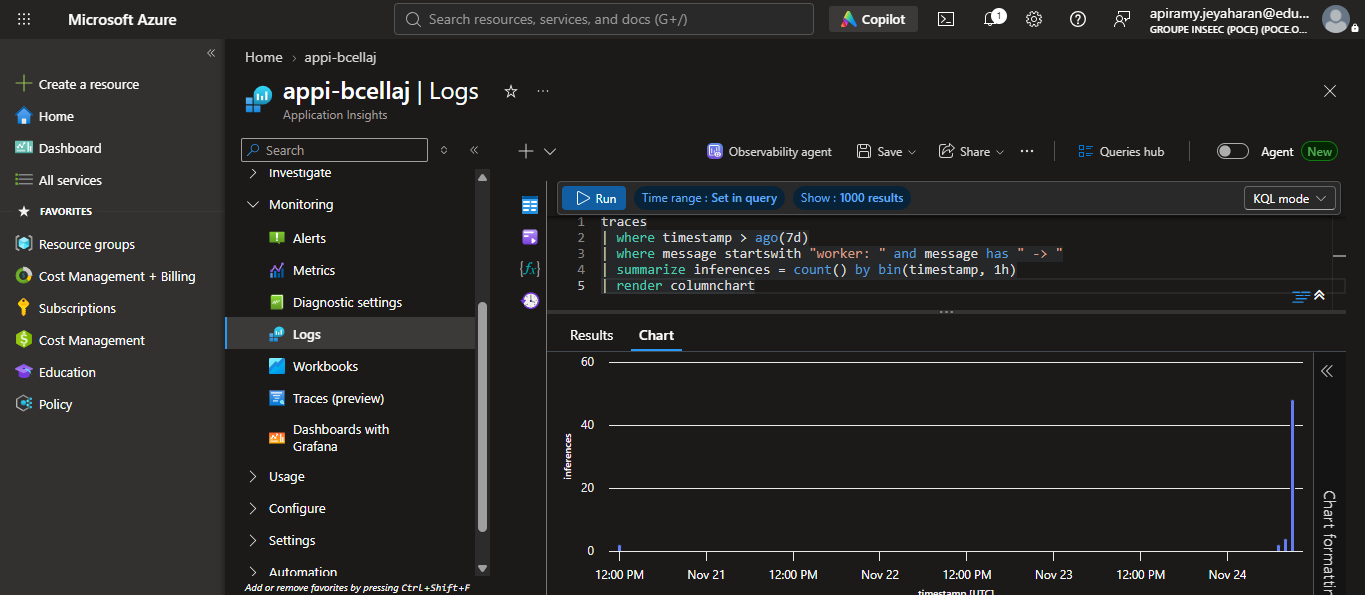
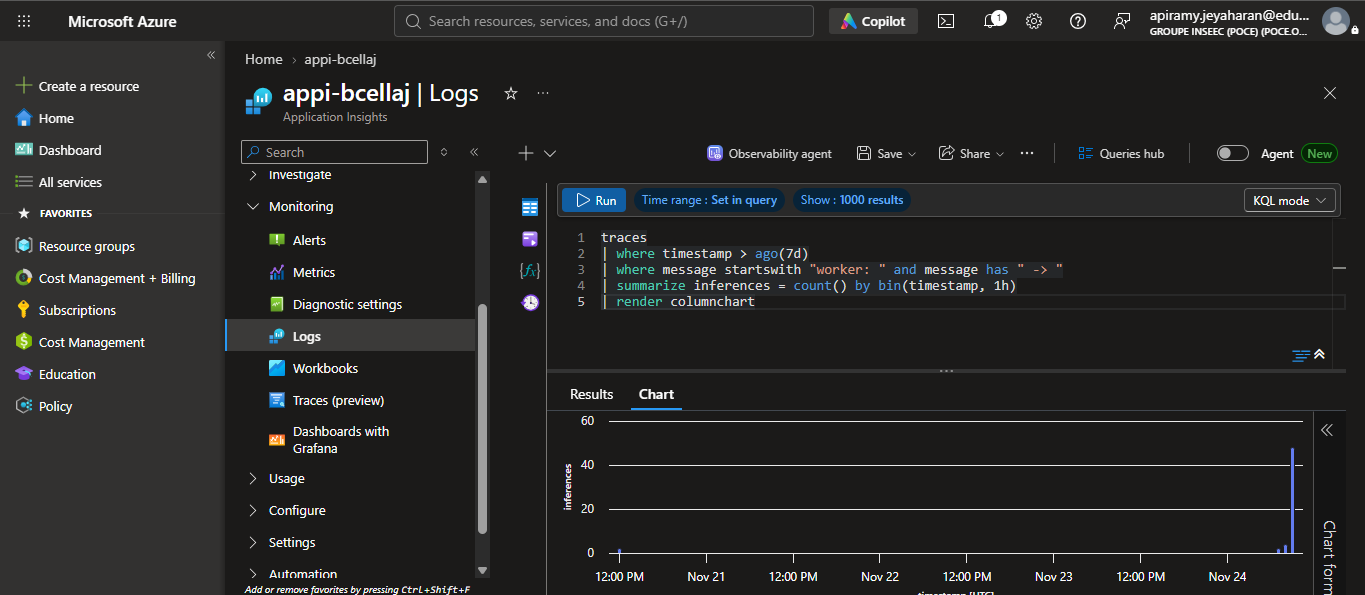
Timelog,cost and screenshot for doc added

diff --git a/docs/cost_report.md b/docs/cost_report.md
@@ -1,0 +1,58 @@
+# Cost report – team `bcellaj`
+
+**Subscription:** Azure for Students (integration subscription owned by Apiramy Jeyaharan)
+**Resource group:** `rg-projet-bcellaj` – region `francecentral` – tags `projet=dscc`, `equipe=bcellaj`
+**Envelope:** $25 maximum · **Budget:** `budget-bcellaj`, $25, alerts at 20 % ($5), 50 % ($12.50), 80 % ($20) – see `budget.png`
+
+## 1. Initial estimate (15 days)
+
+| Service | Configuration | Free grant used | Estimate |
+|---|---|---|---|
+| Functions (Flex Consumption) | 1 app, 512 MB, 3 functions | 250,000 executions + 100,000 GB-s / month | $0.00 |
+| Container Apps (Consumption) | 0.25 vCPU / 0.5 GiB, **min 0 replicas** | 180,000 vCPU-s + 360,000 GiB-s + 2 M requests / month | $0.00 |
+| Event Grid | system topic, 1 subscription | 100,000 operations / month | $0.00 |
+| Storage (blob, queues, `$web`) | Standard LRS, a few MB, a few thousand transactions | – | < $0.20 |
+| Cosmos DB | **Free Tier**, 400 RU/s shared | 1,000 RU/s + 25 GB | $0.00 |
+| Log Analytics + Application Insights | **daily cap 0.2 GB** | 5 GB ingestion / month | $0.00 |
+| Log alert (every 15 min) | 1 rule | – | < $0.50 |
+| GitHub Actions + GHCR | public repository | free | $0.00 |
+| ACR | **not used** (GHCR instead) | – | $0.00 |
+| **Total** | | | **≈ $0 – $1** |
+
+## 2. Actual cost on D15
+
+Source: Cost Management → **Cost analysis**, scope = subscription, **filter tag `projet = dscc`**, period = project dates. Screenshot: `cost_analysis_d15.png`.
+
+| Service | Actual cost |
+|---|---|
+| _fill in from Cost analysis (group by service name)_ | _$_ |
+| | |
+| **Total** | **$ _____** |
+
+## 3. Gap between estimate and actual
+
+| | |
+|---|---|
+| Estimate | ≈ $0 – $1 |
+| Actual | $ _____ |
+| Gap | $ _____ |
+
+Explanation (adapt to the real numbers):
+- Most services stayed within their monthly free grants (Functions, Container Apps at 0 replicas when idle, Event Grid, Cosmos DB Free Tier, App Insights below 5 GB).
+- The small amounts come from: storage transactions and capacity (the Flex Consumption deployment package is also stored in the account), the log alert rule (billed per rule and per evaluation frequency), and Log Analytics ingestion if any.
+- Cost Management data can lag by 24–48 h, so the D15 figure may slightly under-report the last day.
+
+## 4. Proof of deletion (after the defence)
+
+```bash
+az group delete -n rg-projet-bcellaj --yes
+az group exists -n rg-projet-bcellaj                 # -> false            (cleanup_group_exists.png)
+az group list -o table                               # no rg-projet-bcellaj, no DefaultResourceGroup-*   (cleanup_group_list.png)
+```
+
+Also delete, outside the resource group:
+- the budget `budget-bcellaj` is scoped to the group and disappears with it;
+- the GitHub secrets and the `production` environment (optional, no cost);
+- the GHCR package (optional, free).
+
+Deletion date: _dd/mm/2026_ (must be within 48 h after the defence).

diff --git a/docs/time_log.md b/docs/time_log.md
@@ -1,0 +1,31 @@
+# Time log – team `bcellaj`
+
+One line per work session. Durations are actual working time. **Each member fills in their own lines.**
+
+| Date | Member | Task | Duration | Blocker / note |
+|---|---|---|---|---|
+| 20/11/2026 | Apiramy | Read the subject, choose the use case (BloodMNIST blood-cell classification), plan the team split | 0 h 45 | – |
+| 20/11/2026 | Apiramy | Training notebook on Colab: baselines, small CNN, ResNet-18 fine-tuning, ONNX export, metrics | 1 h 15 | – |
+| 20/11/2026 | Apiramy | FastAPI inference API, pytest tests, multi-stage Dockerfile; GitHub repo + `ci.yml` (GHCR) | 1 h 00 | GHCR package private by default → made public |
+| 20/11/2026 | Apiramy | Region checks (policy + Flex Consumption), resource group, Cosmos DB Free Tier (CLI), storage, queues, Log Analytics + App Insights | 1 h 00 | Cloud Shell lost variables after each disconnection |
+| 20/11/2026 | Apiramy | Container Apps environment + API deployment (0→2 replicas), probes, internet test | 0 h 45 | Placeholder left in image name (`ghcr.io//…`) |
+| 20/11/2026 | Apiramy | Function App (Flex), managed identity + role assignments, settings, code deployment, Event Grid subscription, tests valid / invalid / poison | 1 h 15 | Remote build failed: `azure-functions==2.4.0` needs Python 3.13 → pinned 1.26.0 |
+| 24/11/2026 | Apiramy | Dashboard (`$web` + Chart.js) and CORS | 0 h 30 | – |
+| 24/11/2026 | Apiramy | Fix red CI (ruff UP017), `deploy.yml` with OIDC, `production` environment + reviewer | 1 h 00 | `AADSTS700213`: GitHub subject now contains owner/repo IDs → new federated credential |
+| 24/11/2026 | Apiramy | Budget $25 (20/50/80 %), traffic generation, 3 KQL queries + screenshots | 0 h 30 | A budget `budget-dscc` already existed → `budget-bcellaj` on the resource group |
+| 24/11/2026 | Apiramy | Alert (action group + log alert), deliberate trigger, email verification | 1 h 00 | Hidden CLI extension prompt; email receivers must be verified (OTP) |
+| 24/11/2026 | Apiramy | README, screenshots, documentation | 0 h 45 | – |
+| _dd/mm_ | _Teammate 2_ | _task_ | _h_ | _blocker_ |
+| _dd/mm_ | _Teammate 3_ | _task_ | _h_ | _blocker_ |
+| _D15_ | _member_ | Cost report: actual cost in Cost Management | _h_ | – |
+| _defence_ | All | Video recording + defence rehearsal | _h_ | – |
+| _defence + 1_ | Apiramy | Clean-up (`az group delete`) + proofs | _h_ | – |
+
+## Total per member
+
+| Member | Total |
+|---|---|
+| Apiramy Jeyaharan | 9 h 45 (to date) |
+| _Teammate 2_ | _h_ |
+| _Teammate 3_ | _h_ |
+| **Team** | _h_ |
